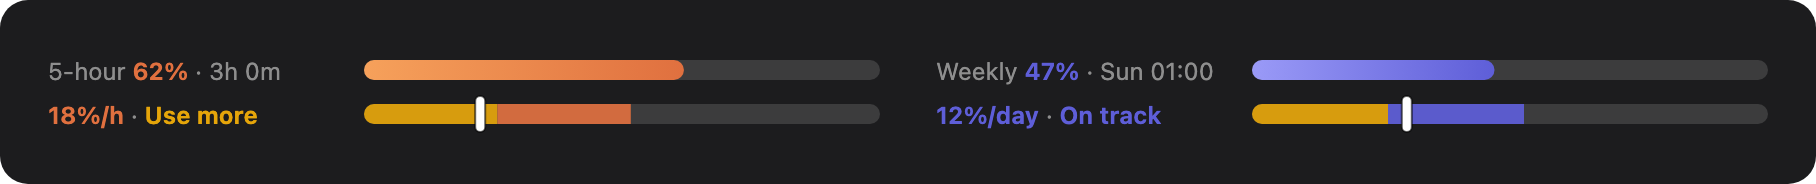
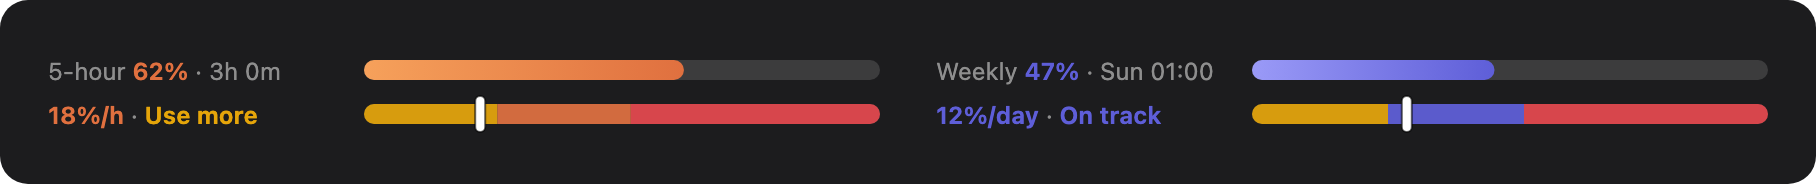
README pictures and text for the 1.1.0 dials
The Pane picture shows the four dials, the speedometer picture the three
equal zones, the band its red Ease off segment.

Changed region(s): [[0.3392, 0.5435, 0.4934, 0.6793], [0.8326, 0.5435, 0.9868, 0.6793]]

diff --git a/README.md b/README.md
@@ -4,7 +4,7 @@
 
 A Claude plan meters usage in windows: a 5-hour window, a weekly window, and sometimes a weekly window per model. Whatever you haven't used when a window resets is lost. Claude's own meter warns you near a cap, but nothing tells you that allowance you've already paid for is about to go unused. ai-pal does.
 
-<p align="center"><img src="mod/images/pane.png" width="320" alt="The ai-pal Pane: a split ring with 62% of the 5-hour window and 47% of the weekly window left, a row for the Fable model, and a speedometer reading 18%/h · Use more"></p>
+<p align="center"><img src="mod/images/pane.png" width="280" alt="The ai-pal Pane: a fuel gauge with 62% of the 5-hour window left and its clock at 3:00:00, the 5-hour speedometer at 18%/h (Use more), a weekly fuel gauge at 47% with 4d 11:00:00 to go, the weekly speedometer at 12%/day (On track), and a row for the Fable model"></p>
 
 ## What it does
 
@@ -16,7 +16,9 @@ A Claude plan meters usage in windows: a 5-hour window, a weekly window, and som
 - **On track**: your pace spends it by the Reset.
 - **Ease off**, or a lighter model: you'd run out well before the Reset.
 
-<p align="center"><img src="mod/images/speedometer.png" width="248" alt="The 5-hour Burn Rate speedometer at 18%/h, in the amber Use more zone below 21%/h"></p>
+Each speedometer gives the three calls a third of its dial each: amber for Use more, the window's colour for On track, red for Ease off.
+
+<p align="center"><img src="mod/images/speedometer.png" width="220" alt="The 5-hour Burn Rate speedometer at 18%/h in its amber Use more third; On track runs from 21 to 40%/h and Ease off, in red, above that"></p>
 
 **It keeps the key figures where you type.** A band above the prompt shows each window's Unused Allowance over a speed bar with your rate and the Pace Call. Hover a bar for the reason behind the call.
 
@@ -30,7 +32,7 @@ A Claude plan meters usage in windows: a 5-hour window, a weekly window, and som
 
 Nudges stay quiet during your Quiet Hours (23:00–08:00 by default). A weekly Nudge that would land in them moves to just before they start. A 5-hour and a weekly Nudge due within 30 minutes of each other arrive as one notification.
 
-**It's honest about old figures.** A Reading older than 15 minutes fades and gets a `~`, and the footnote under the ring always says how old the figures are. A window whose Reset has passed shows a dashed `Reset` rather than an assumed full window.
+**It's honest about old figures.** A Reading older than 15 minutes fades and gets a `~`, and the footnote under the dials always says how old the figures are. A window whose Reset has passed shows a dashed `Reset` rather than an assumed full window.
 
 ## Install
 

diff --git a/mod/README.md b/mod/README.md
@@ -4,7 +4,7 @@
 
 A Claude plan meters usage in windows: a 5-hour window, a weekly window, and sometimes a weekly window per model. Whatever you haven't used when a window resets is lost. Claude's own meter warns you near a cap, but nothing tells you that allowance you've already paid for is about to go unused. ai-pal does.
 
-![The ai-pal Pane: a split ring with 62% of the 5-hour window and 47% of the weekly window left, a row for the Fable model, and a speedometer reading 18%/h, Use more](images/pane.png)
+<p align="center"><img src="images/pane.png" width="280" alt="The ai-pal Pane: a fuel gauge with 62% of the 5-hour window left and its clock at 3:00:00, the 5-hour speedometer at 18%/h (Use more), a weekly fuel gauge at 47% with 4d 11:00:00 to go, the weekly speedometer at 12%/day (On track), and a row for the Fable model"></p>
 
 ## What it does
 
@@ -16,6 +16,8 @@ A Claude plan meters usage in windows: a 5-hour window, a weekly window, and som
 - **On track**: your pace spends it by the Reset.
 - **Ease off**, or a lighter model: you'd run out well before the Reset.
 
+Each speedometer gives the three calls a third of its dial each: amber for Use more, the window's colour for On track, red for Ease off.
+
 **It keeps the key figures where you type.** A band above the prompt shows each window's Unused Allowance over a speed bar with your rate and the Pace Call. Hover a bar for the reason behind the call.
 
 ![The band above the prompt: 5-hour 62%, 3h 0m, 18%/h, Use more; Weekly 47%, Sun 01:00, 12%/day, On track](images/band.png)
@@ -26,7 +28,7 @@ A Claude plan meters usage in windows: a 5-hour window, a weekly window, and som
 
 Nudges stay quiet during your Quiet Hours (23:00–08:00 by default). A weekly Nudge that would land in them moves to just before they start, and a 5-hour and a weekly Nudge due within 30 minutes of each other arrive as one notification.
 
-**It's honest about old figures.** A Reading older than 15 minutes fades and gets a `~`, and the footnote under the ring always says how old the figures are. A window whose Reset has passed shows a dashed `Reset` rather than an assumed full window.
+**It's honest about old figures.** A Reading older than 15 minutes fades and gets a `~`, and the footnote under the dials always says how old the figures are. A window whose Reset has passed shows a dashed `Reset` rather than an assumed full window.
 
 ## Install
 
